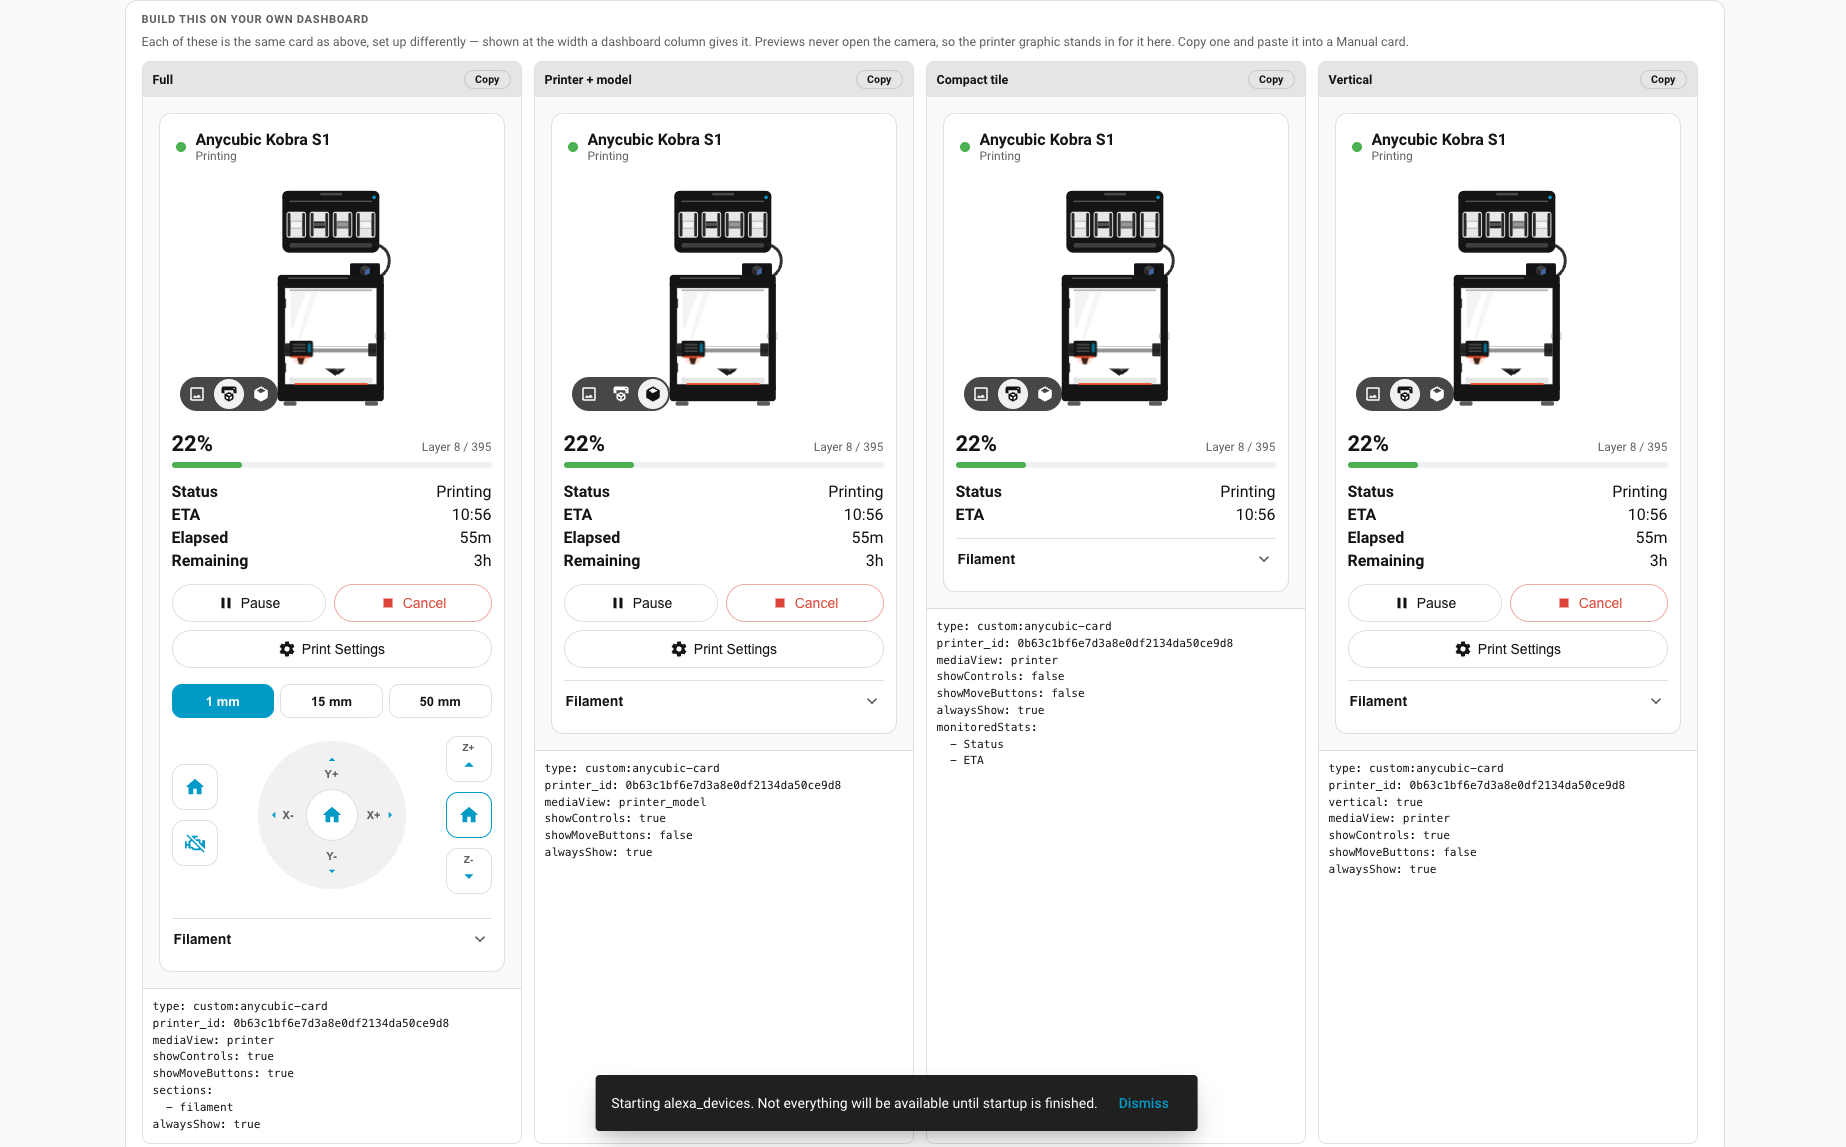
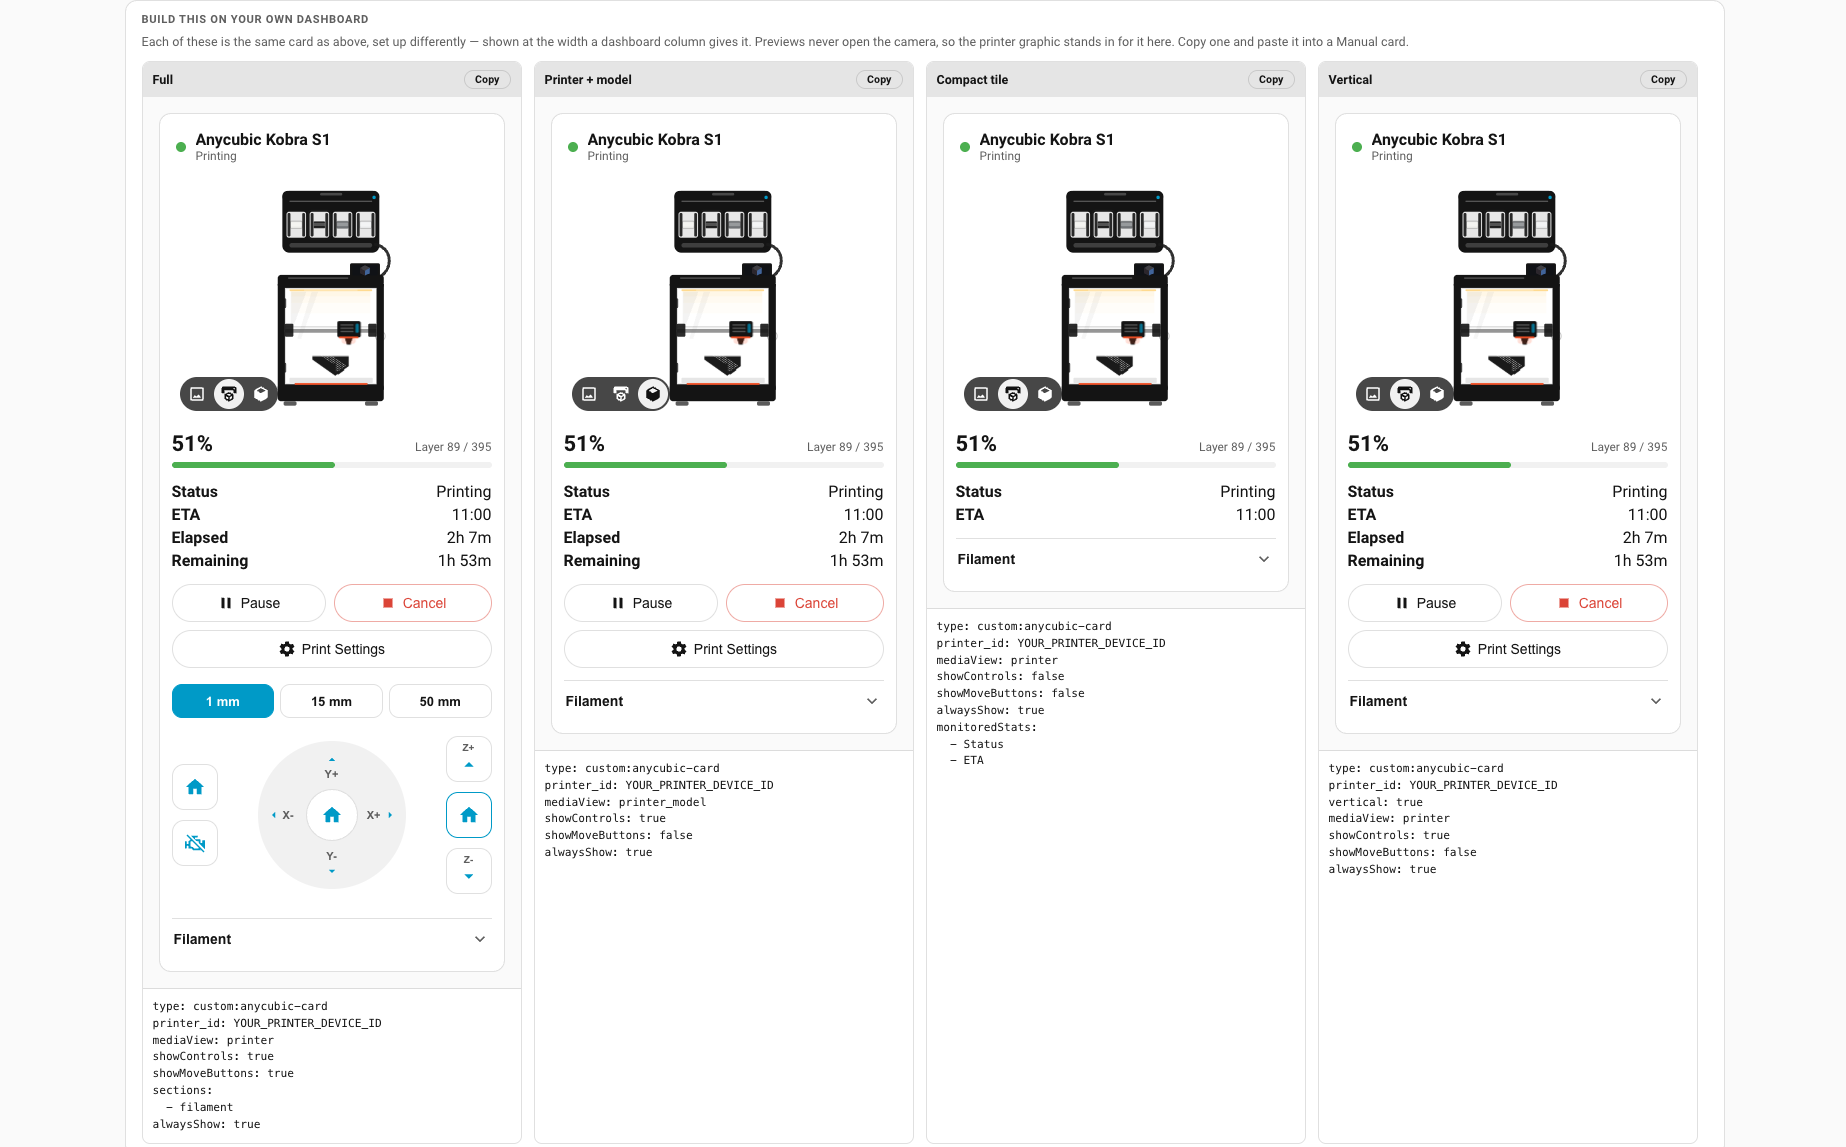
Keep the owner's device id out of the published surface
The README example and the preset-gallery screenshot carried the dev
machine's Home Assistant device registry id. It is a local random id with no
remote use, but it identifies a real install and a placeholder documents the
option just as well. The gallery screenshot is retaken with the id masked to
the same placeholder the panel shows when no printer is selected.

diff --git a/README.md b/README.md
@@ -907,7 +907,7 @@ Everything is optional. `printer_id` is the device id, which the visual editor f
 
 ```yaml
 type: custom:anycubic-card
-printer_id: 0b63c1bf6e7d3a8e0df2134da50ce9d8
+printer_id: YOUR_PRINTER_DEVICE_ID
 mediaView: auto          # auto | camera | preview | printer | printer_model | none
 printerArt: auto         # auto | kobra_s1 | kobra_s1_combo | kobra_3 | resin | fdm
 showControls: true
